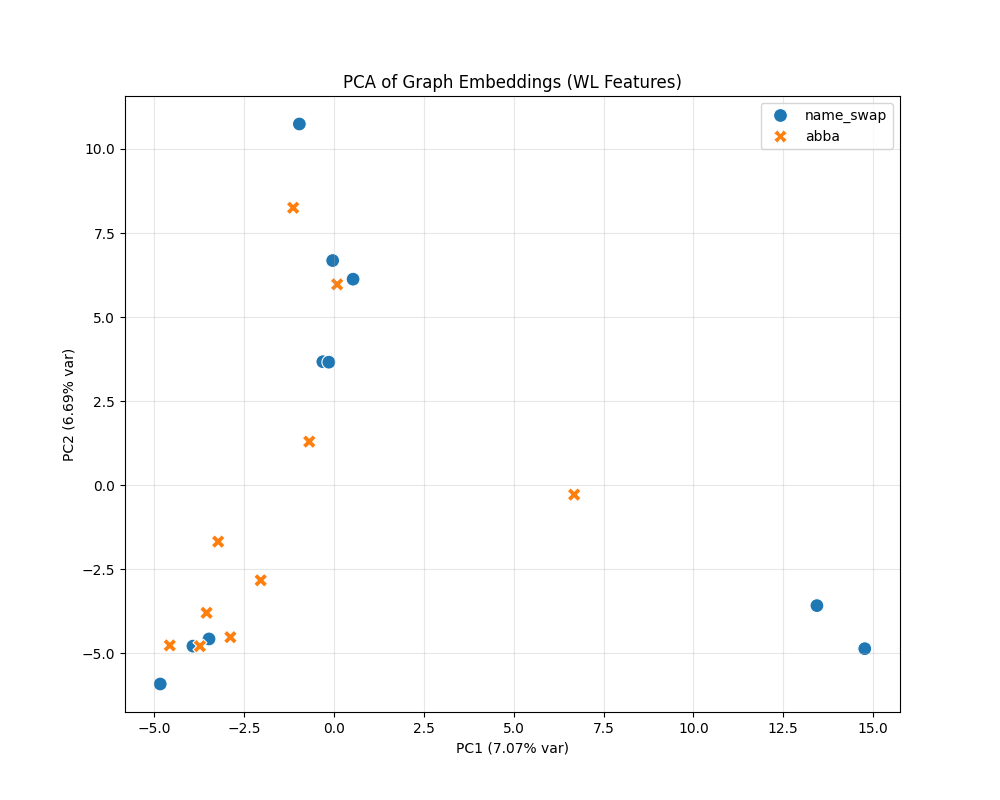
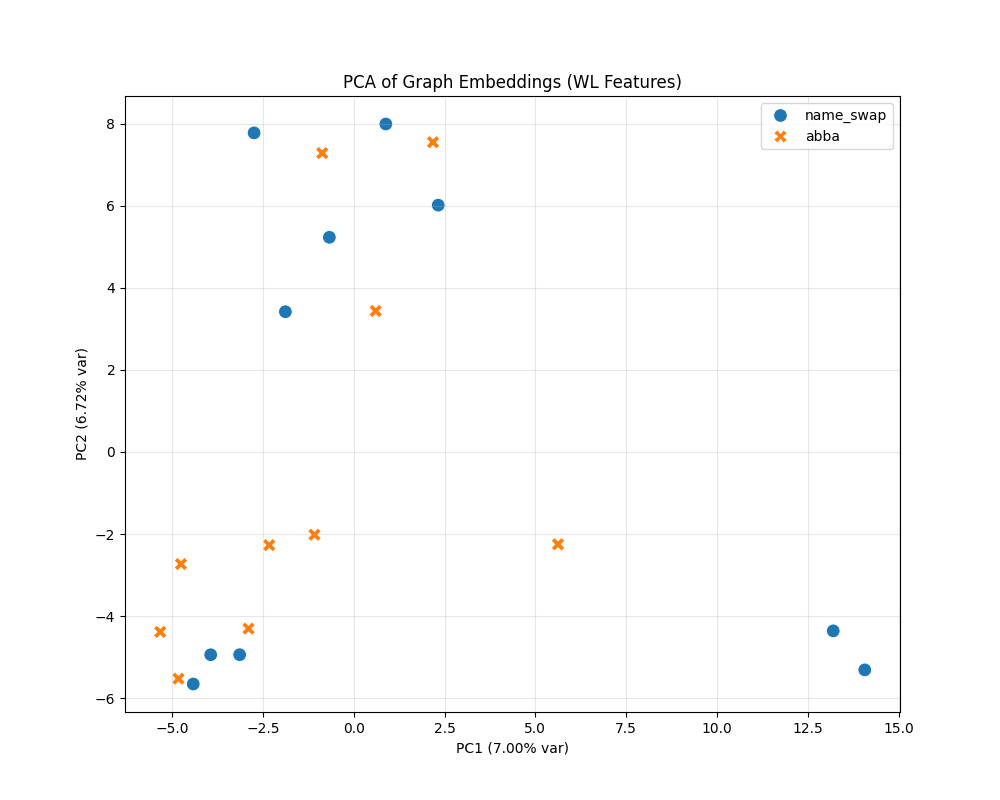
feat: update plotting functions to ensure output directories are created for heatmaps and PCA embeddings

diff --git a/examples/run_pipeline.py b/examples/run_pipeline.py
@@ -14,6 +14,7 @@ This script demonstrates:
 
 import logging
 import sys
+from pathlib import Path
 
 # Configure logging
 logging.basicConfig(
@@ -57,6 +58,9 @@ def plot_average_heatmap(effects, filename="heatmap.png"):
 
     logger.info("   Generating heatmaps...")
 
+    output_path = Path(filename)
+    output_path.parent.mkdir(parents=True, exist_ok=True)
+
     # Aggregate effects by slice
     slice_effects = {}
     for tensor in effects:
@@ -94,7 +98,9 @@ def plot_average_heatmap(effects, filename="heatmap.png"):
 
         # Sanitize filename
         safe_label = label.replace(":", "_").replace(" ", "_").replace("/", "_")
-        out_file = f"{filename.split('.')[0]}_{safe_label}.png"
+        out_file = output_path.with_name(
+            f"{output_path.stem}_{safe_label}{output_path.suffix}"
+        )
 
         plt.savefig(out_file)
         plt.close()
@@ -107,6 +113,9 @@ def plot_pca_embeddings(features, filename="pca.png"):
         return
 
     logger.info("   Generating PCA plot...")
+
+    output_path = Path(filename)
+    output_path.parent.mkdir(parents=True, exist_ok=True)
 
     X = features.to_matrix()
     # Extract labels from slice_labels
@@ -125,13 +134,14 @@ def plot_pca_embeddings(features, filename="pca.png"):
     plt.xlabel(f"PC1 ({pca.explained_variance_ratio_[0]:.2%} var)")
     plt.ylabel(f"PC2 ({pca.explained_variance_ratio_[1]:.2%} var)")
     plt.grid(True, alpha=0.3)
-    plt.savefig(filename)
+    plt.savefig(output_path)
     plt.close()
-    logger.info(f"   Saved PCA plot to {filename}")
+    logger.info(f"   Saved PCA plot to {output_path}")
 
 
 def main():
     logger.info("Starting PIG pipeline example...")
+    output_dir = Path(__file__).parent
 
     # 1. Load a model with activation hooks
     logger.info("1. Loading model (gpt2)...")
@@ -152,7 +162,7 @@ def main():
     logger.info(f"   Computed effects for {len(effects)} slices.")
 
     # Visualization: Heatmaps
-    plot_average_heatmap(effects, filename="examples/heatmap.png")
+    plot_average_heatmap(effects, filename=str(output_dir / "heatmap.png"))
 
     # 4. Build graphs from patch effects
     logger.info("4. Building graphs (per example)...")
@@ -167,7 +177,7 @@ def main():
     logger.info(f"   Feature matrix shape: {features.to_matrix().shape}")
 
     # Visualization: PCA
-    plot_pca_embeddings(features, filename="examples/pca_embeddings.png")
+    plot_pca_embeddings(features, filename=str(output_dir / "pca_embeddings.png"))
 
     # 6. Train a classical kernel baseline
     logger.info("6. Training classical baseline...")
